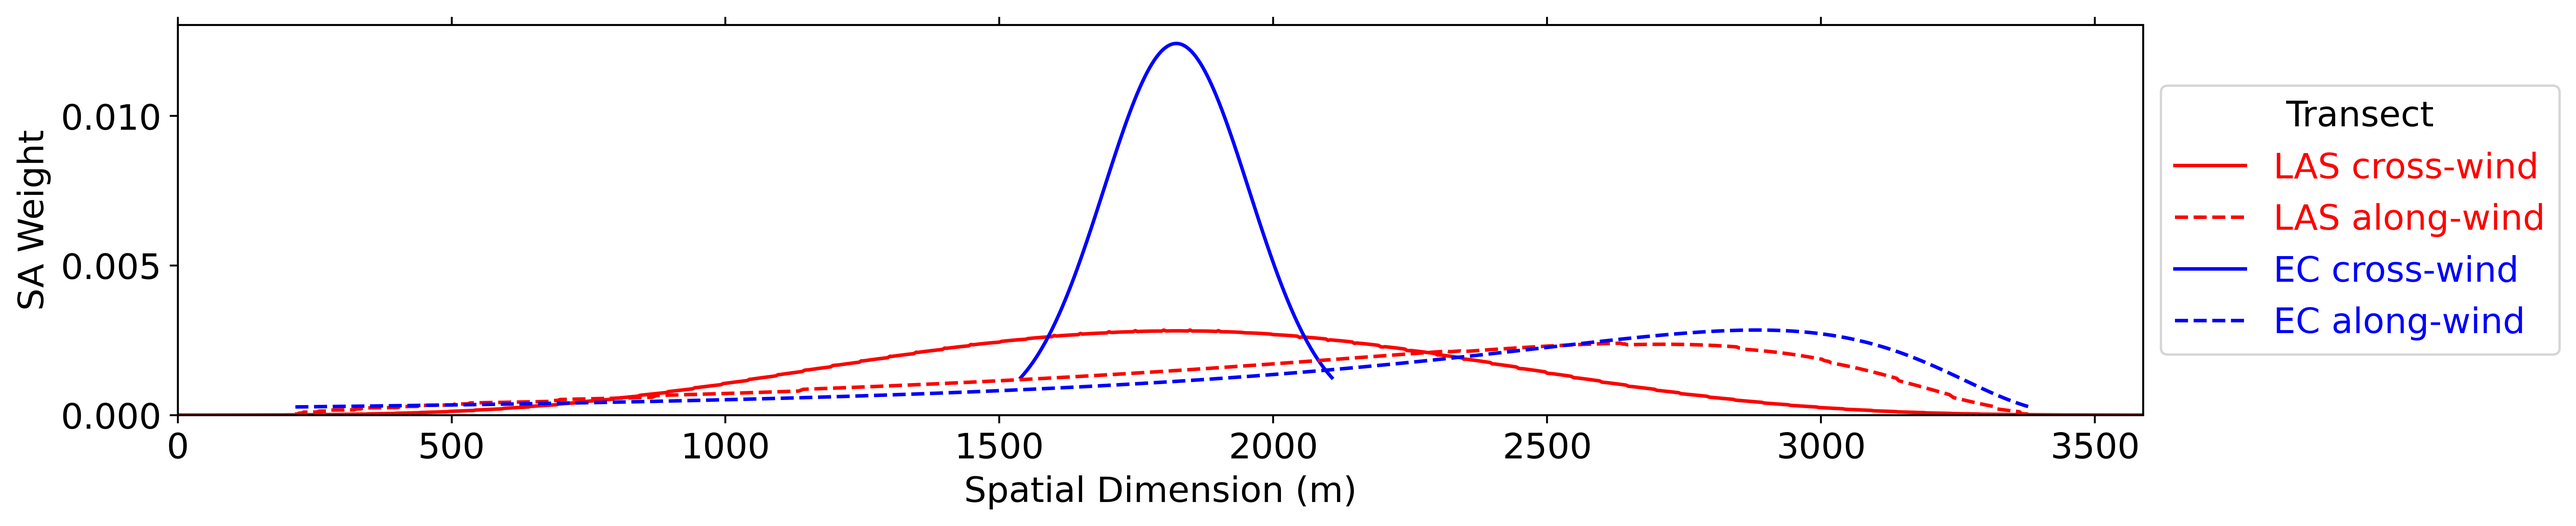
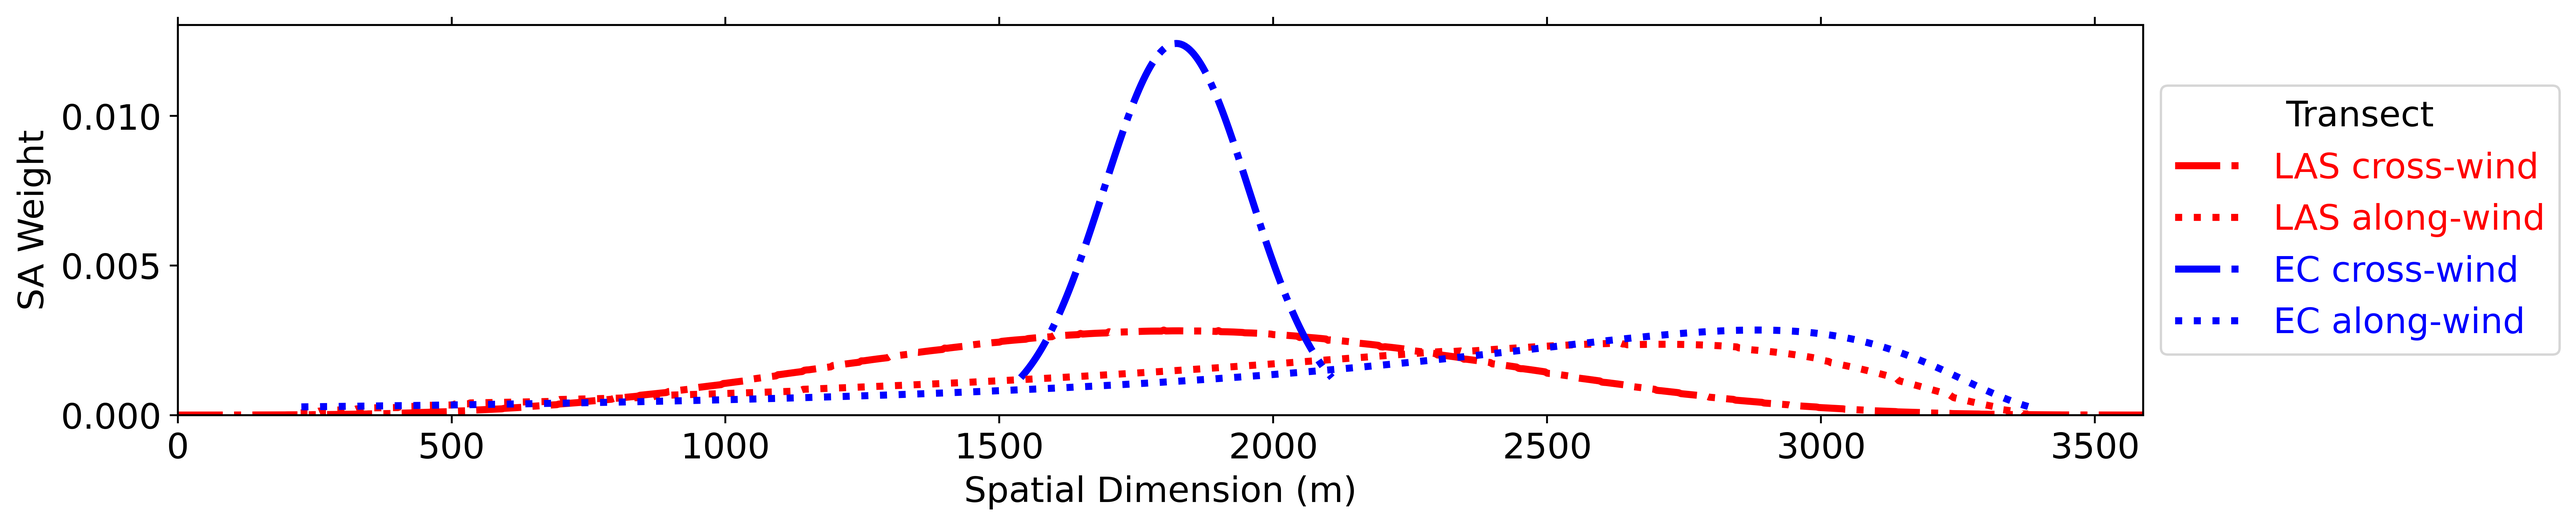
make linetypes consistent with map

diff --git a/scint_plots/concept_figure/concept_figure_funs.py b/scint_plots/concept_figure/concept_figure_funs.py
@@ -213,20 +213,18 @@ def plot_concept_axis(in_dict, save_path):
 
     # east to west
     las_lat = ax.plot(df_las_lat.index - min_lat, df_las_lat.x_crosssec_to1_path, label='LAS cross-wind',
-                      color='red',
-                      linestyle='-')
+                      color='red', linestyle='-.', linewidth=3)
 
-    ec_lat = ax.plot(df_ec_lat.index - min_lat, df_ec_lat.x_crosssec_to1_point, label='EC cross-wind', color='blue',
-                     linestyle='-')
+    ec_lat = ax.plot(df_ec_lat.index - min_lat, df_ec_lat.x_crosssec_to1_point, label='EC cross-wind',
+                     color='blue', linestyle='-.', linewidth=3)
 
     # ax2.set_xlabel('Latitudinal Distance (m)')
 
     # north to south
     las_lon = ax.plot(df_las_lon.index - min_lon, df_las_lon.y_crosssec_to1_path, label='LAS along-wind',
-                      color='red',
-                      linestyle='--')
-    ec_lon = ax.plot(df_ec_lon.index - min_lon, df_ec_lon.y_crosssec_to1_point, label='EC along-wind', color='blue',
-                     linestyle='--')
+                      color='red', linestyle=':', linewidth=3)
+    ec_lon = ax.plot(df_ec_lon.index - min_lon, df_ec_lon.y_crosssec_to1_point, label='EC along-wind',
+                     color='blue', linestyle=':', linewidth=3)
 
     # ax.set_xlabel('Longitudinal Distance (m)')
 
